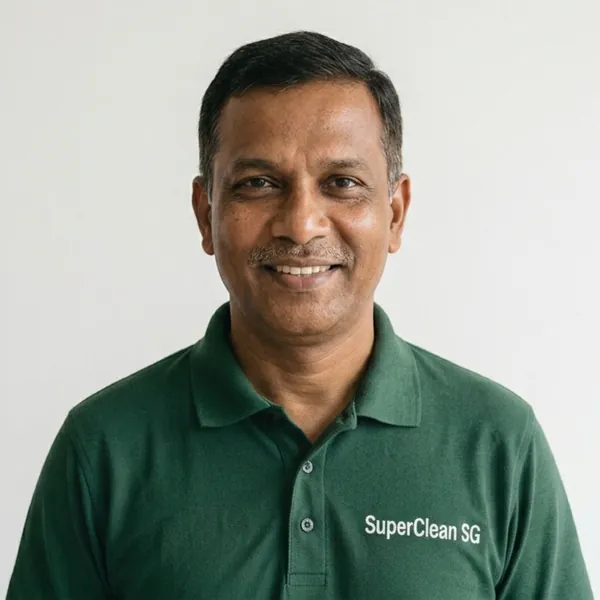
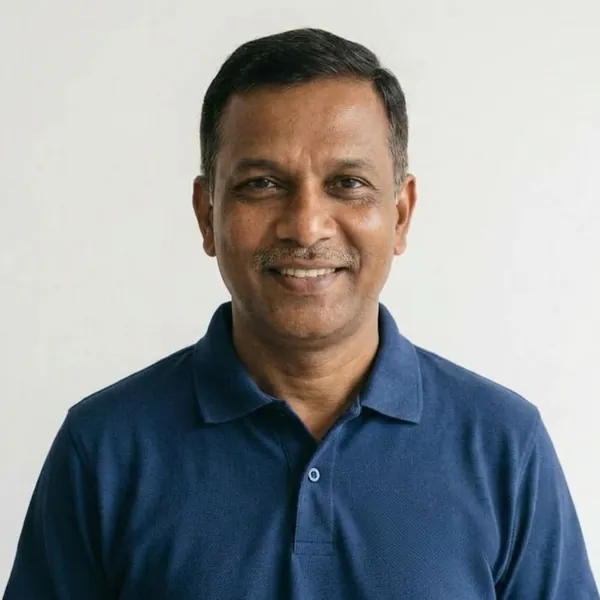
New photos: Malaysia, Myanmar, India heroes; services default; Bangladesh
- Hero portraits for Malaysia (cropped to head and shoulders), Myanmar
  and India replaced, alt text updated
- service-default.webp is now the window-cleaning photo (no longer a
  temporary copy)
- Bangladesh country card photo replaced, alt text updated

diff --git a/landing-pages/index.html b/landing-pages/index.html
@@ -107,11 +107,11 @@
 
     <div class="hero-visual">
       <div class="globe"></div>
-      <div class="portrait p1"><img src="images/home/hero-malaysia.webp" width="600" height="600" alt="Smiling cleaner in a green SuperClean SG uniform, representing workers from Malaysia" title="Workers from Malaysia" decoding="async"><span class="tag" aria-hidden="true">Malaysia</span></div>
+      <div class="portrait p1"><img src="images/home/hero-malaysia.webp" width="600" height="600" alt="Smiling cleaner in a navy uniform and white apron holding a cloth and spray bottle, representing workers from Malaysia" title="Workers from Malaysia" decoding="async"><span class="tag" aria-hidden="true">Malaysia</span></div>
       <div class="portrait p2"><img src="images/home/hero-prc.webp" width="600" height="600" alt="Smiling cleaner in a green SuperClean SG uniform, representing workers from PRC" title="Workers from PRC" decoding="async"><span class="tag" aria-hidden="true">PRC</span></div>
-      <div class="portrait p3 big"><img src="images/home/hero-myanmar.webp" width="600" height="600" alt="Smiling construction worker in a yellow hard hat and orange safety vest, representing workers from Myanmar" title="Workers from Myanmar" decoding="async"><span class="tag" aria-hidden="true">Myanmar</span></div>
+      <div class="portrait p3 big"><img src="images/home/hero-myanmar.webp" width="600" height="600" alt="Smiling young construction worker in a yellow hard hat and orange safety vest, representing workers from Myanmar" title="Workers from Myanmar" decoding="async"><span class="tag" aria-hidden="true">Myanmar</span></div>
       <div class="portrait p4"><img src="images/home/hero-bangladesh.webp" width="600" height="600" alt="Smiling construction worker in a yellow hard hat and orange safety vest, representing workers from Bangladesh" title="Workers from Bangladesh" decoding="async"><span class="tag" aria-hidden="true">Bangladesh</span></div>
-      <div class="portrait p5"><img src="images/home/hero-india.webp" width="600" height="600" alt="Smiling cleaner in a green SuperClean SG uniform, representing workers from India" title="Workers from India" decoding="async"><span class="tag" aria-hidden="true">India</span></div>
+      <div class="portrait p5"><img src="images/home/hero-india.webp" width="600" height="600" alt="Smiling cleaner in a navy polo shirt, representing workers from India" title="Workers from India" decoding="async"><span class="tag" aria-hidden="true">India</span></div>
     </div>
   </div>
 
@@ -229,7 +229,7 @@
 
       <div class="svc-media" aria-hidden="true">
         <div class="svc-media-frame">
-          <div class="media-ph has-photo media-default is-active"><img src="images/home/service-default.webp" width="1200" height="960" alt="Foreign cleaning and construction workers placed by Employment Agency Singapore" title="Foreign Worker Services" loading="lazy" decoding="async"></div>
+          <div class="media-ph has-photo media-default is-active"><img src="images/home/service-default.webp" width="1200" height="960" alt="Cleaner in blue gloves washing a high-rise window with a squeegee and spray bottle" title="Foreign Worker Services" loading="lazy" decoding="async"></div>
           <div class="media-ph has-photo"><img src="images/home/service-cleaner-supply.webp" width="1200" height="960" alt="Cleaner in rubber gloves washing a plate at a commercial kitchen sink" title="Foreign Cleaner Supply" loading="lazy" decoding="async"></div>
           <div class="media-ph has-photo"><img src="images/home/service-outsourcing.webp" width="1200" height="960" alt="SuperClean SG cleaner wiping down an office desk at a client site" title="Cleaning Manpower Outsourcing" loading="lazy" decoding="async"></div>
           <div class="media-ph has-photo"><img src="images/home/service-construction.webp" width="1200" height="960" alt="Construction worker in a hard hat and safety vest measuring steel rebar on site" title="Construction Worker Recruitment" loading="lazy" decoding="async"></div>
@@ -267,7 +267,7 @@
         <a class="text-link" data-link="hireForm" data-country="PRC" href="#request-workers">Hire PRC Workers <svg class="ico"><use href="#i-arrow"/></svg></a>
       </article>
       <article class="country-card">
-        <div class="country-photo has-photo"><img src="images/home/country-bangladesh.webp" width="1200" height="750" alt="Construction worker pushing a wheelbarrow at a building site" title="Bangladeshi workers for construction" loading="lazy" decoding="async"><span class="code">BD</span><h3>Bangladeshi Workers for Construction</h3></div>
+        <div class="country-photo has-photo"><img src="images/home/country-bangladesh.webp" width="1200" height="750" alt="Smiling construction worker in a hard hat and safety vest handling steel rebar at a building site" title="Bangladeshi workers for construction" loading="lazy" decoding="async"><span class="code">BD</span><h3>Bangladeshi Workers for Construction</h3></div>
         <dl>
           <div><dt>Sector</dt><dd>Construction</dd></div>
           <div><dt>Roles</dt><dd>General construction workers, new or U-turn</dd></div>

diff --git a/process/design-system.html b/process/design-system.html
@@ -618,7 +618,7 @@ table.ds-table{width:100%;border-collapse:collapse;font-size:14px}
   <h2>6 Imagery and icons</h2>
   <div class="table-wrap"><table class="ds-table">
     <tr><th>Slot</th><th>Ratio and size</th><th>Count</th><th>Notes</th></tr>
-    <tr><td>Hero portraits</td><td>Square 600 × 600, shown in circles: 32% / 18% / 14–16% of the picture</td><td>5</td><td>Head and shoulders on a plain light wall, smiling at the camera. Cleaners in the green SuperClean SG polo, construction workers in a yellow hard hat and orange vest. Hidden on mobile</td></tr>
+    <tr><td>Hero portraits</td><td>Square 600 × 600, shown in circles: 32% / 18% / 14–16% of the picture</td><td>5</td><td>Head and shoulders on a plain light wall, smiling at the camera. Cleaners in a work uniform (navy, or the green SuperClean SG polo), construction workers in a yellow hard hat and orange vest. Hidden on mobile</td></tr>
     <tr><td>Client logos</td><td>Tile 64px tall desktop, 52 tablet, 44 mobile</td><td>10</td><td>Logo centred, max 70% of the tile; grey or full colour, one style for all</td></tr>
     <tr><td>Service photos</td><td>1200 × 960 (5:4) panel on desktop, cropped to 16:9 inside the row on tablet</td><td>4</td><td>The work itself: dishwashing, office cleaning, rebar work, documents. Not shown on mobile</td></tr>
     <tr><td>Country photos</td><td>1200 × 750 (16:10) desktop, 16:9 tablet and mobile</td><td>5</td><td>A worker on the job for that country's main sector. No flags. Bottom 70% darkened (Depth 92% → 0) so the white title reads on any photo</td></tr>

diff --git a/CLAUDE.md b/CLAUDE.md
@@ -15,7 +15,7 @@ landing-pages/        THE ONLY FOLDER THAT GETS DEPLOYED
   images/home/*.webp    homepage photos
 process/              design-system.html (internal only, never deployed) + design-system-img/ + snippets/
 scripts/python/       capture.py · mobile_audit.py · ds_shots.py · build_preview.py · strips.py
-output/               backups/v1 … v31 and screenshots: local only, ignored by git
+output/               backups/v1 … v32 and screenshots: local only, ignored by git
 ```
 A new page would go in `landing-pages/<page-slug>/index.html`. Nothing else belongs at the root.
 
@@ -34,7 +34,7 @@ A new page would go in `landing-pages/<page-slug>/index.html`. Nothing else belo
 - Mobile: inputs 16px, tap targets at least 44px (arrow buttons 40), no sideways scrolling. Check 360, 390 and 768 with `mobile_audit.py`.
 - Links: Request a Quote, Contact / Contact Us and the service and country cards scroll to the homepage form section. The footer number, Find a Job / Apply for a Job and the WhatsApp buttons open WhatsApp +65 8956 5188 with a pre-filled message (employer or job seeker). Email: hello@employmentagencysingapore.com (form section and footer); the form-section phone number is still a placeholder. Change these at the top of `js/home.js`.
 - The form is the HubSpot embed (portal 242253439). Its fields, consent text and thank-you message are edited in HubSpot. Never submit test entries without asking: they create real leads. It can't load in the claude.ai preview, which shows a placeholder instead.
-- Images: WebP only (logo SVG), in `images/home/` named `hero-…`, `service-…`, `country-…`. `service-default.webp` is the services photo shown while no service is open (temporary copy of the outsourcing photo until Crystal sends hers). Every `<img>` needs `alt`, `title`, `width` and `height`; below-the-fold photos use `loading="lazy"`. Country cards use worker photos, no flags.
+- Images: WebP only (logo SVG), in `images/home/` named `hero-…`, `service-…`, `country-…`. `service-default.webp` (window cleaning) is the services photo shown while no service is open. Every `<img>` needs `alt`, `title`, `width` and `height`; below-the-fold photos use `loading="lazy"`. Country cards use worker photos, no flags.
 - The blog section and Our Clients are hidden with the `hidden` attribute until real articles and client logos exist.
 - Git: commit and push only when asked. `output/` stays out of the repo.
 
